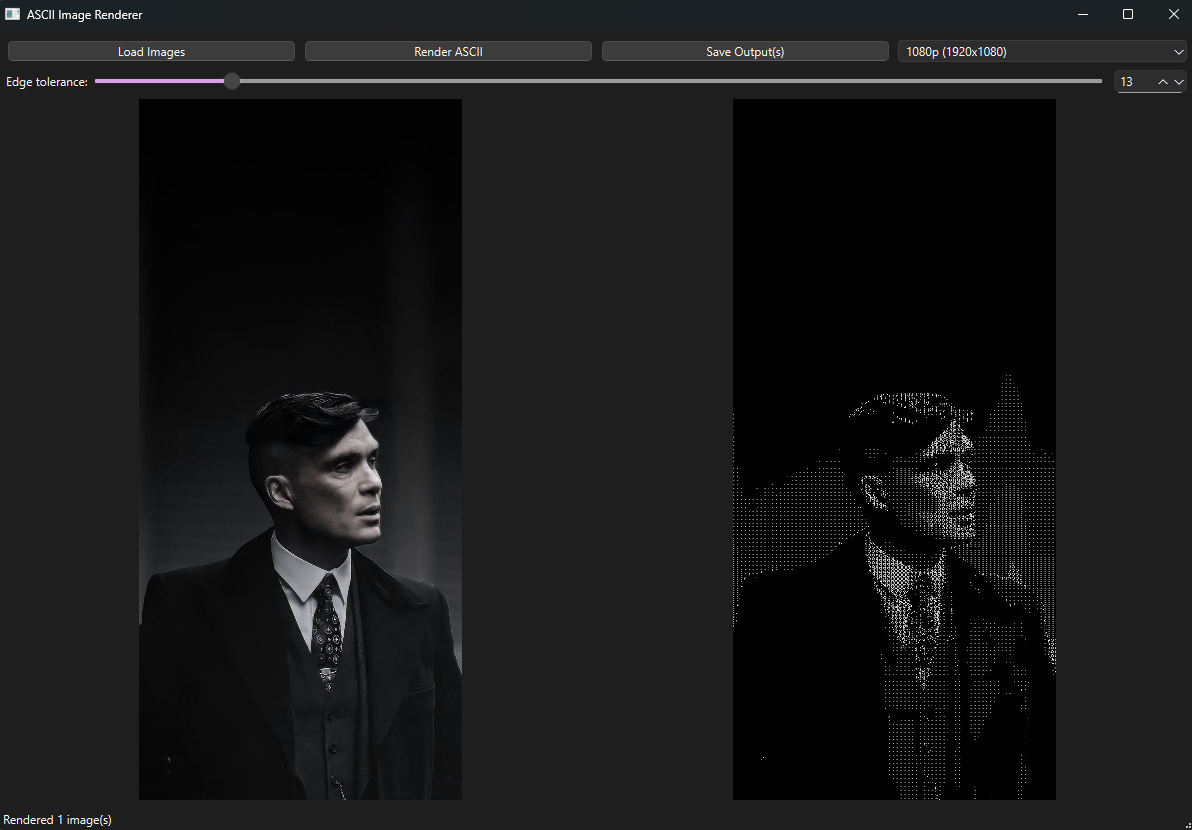
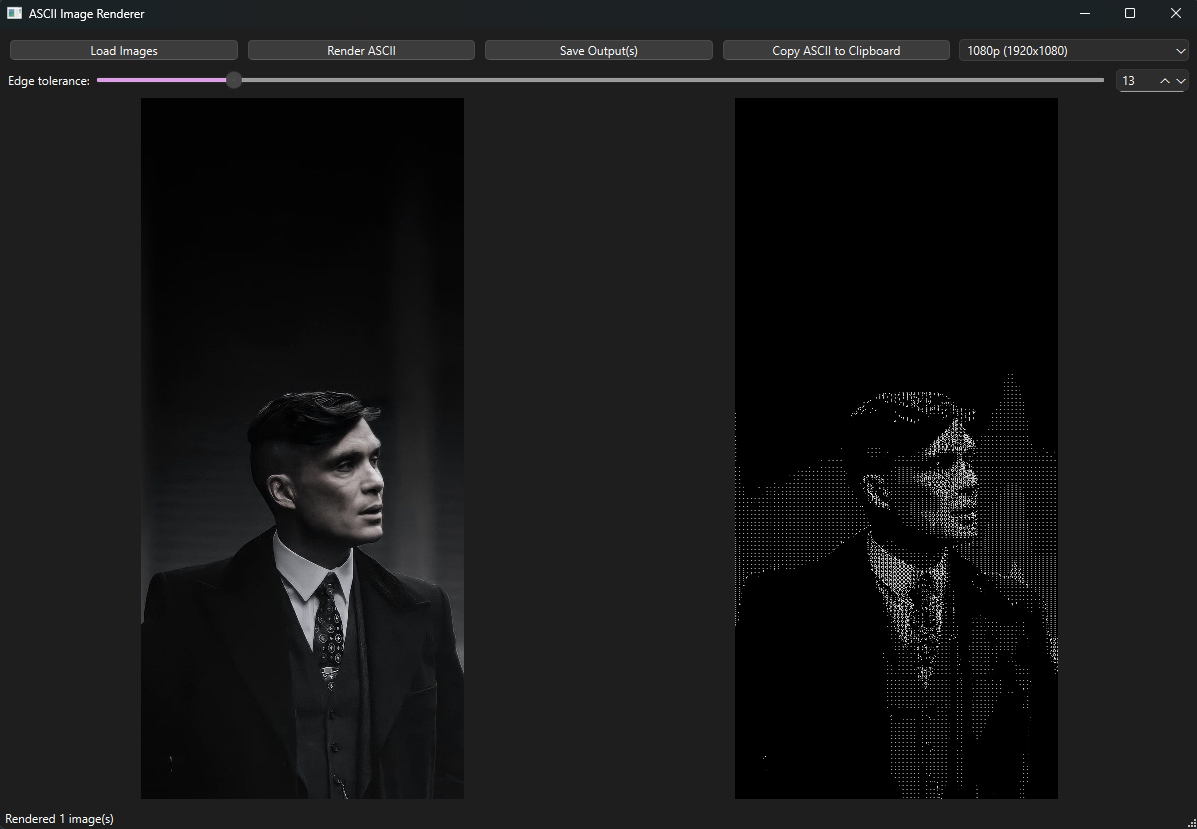
Added to text functionality + readme update

diff --git a/main.py b/main.py
@@ -2,13 +2,8 @@ import os
 import argparse
 from src.Renderer import Renderer
 
-def process_images(input_path, output_path, upscale_width, upscale_height, edge_tolerance):
-    """
-    Process a single image or all images in a folder.
-    """
-    # If input is a folder, process all image files inside
+def process_images(input_path, output_path, upscale_width, upscale_height, edge_tolerance, print_text):
     if os.path.isdir(input_path):
-        os.makedirs(output_path, exist_ok=True)
         files = os.listdir(input_path)
         for filename in files:
             if not filename.lower().endswith(('.png', '.jpg', '.jpeg', '.bmp', '.tiff')):
@@ -17,17 +12,22 @@ def process_images(input_path, output_path, upscale_width, upscale_height, edge_
             img = Renderer.get_image_from_file(full_input, upscale_height, upscale_width)
             if img is None:
                 continue
-            render = Renderer.render_as_ascii(img, edge_tolerance=edge_tolerance)
-            output_file = os.path.join(output_path, filename)
-            Renderer.save_render(render, output_file)
-    elif os.path.isfile(input_path):
-        # Single image
-        os.makedirs(os.path.dirname(output_path), exist_ok=True)
-        img = Renderer.get_image_from_file(input_path, upscale_height, upscale_width)
-        render = Renderer.render_as_ascii(img, edge_tolerance=edge_tolerance)
-        Renderer.save_render(render, output_path)
+
+            if print_text:
+                Renderer.print_ascii(img, edge_tolerance)
+            else:
+                render = Renderer.render_as_ascii(img, edge_tolerance)
+                os.makedirs(output_path, exist_ok=True)
+                output_file = os.path.join(output_path, filename)
+                Renderer.save_render(render, output_file)
     else:
-        print(f"Error: {input_path} is not a valid file or folder.")
+        img = Renderer.get_image_from_file(input_path, upscale_height, upscale_width)
+        if print_text:
+            Renderer.print_ascii(img, edge_tolerance)
+        else:
+            render = Renderer.render_as_ascii(img, edge_tolerance)
+            Renderer.save_render(render, output_path)
+
 
 def parse_args():
     parser = argparse.ArgumentParser(description="ASCII Renderer Command-Line Tool")
@@ -36,6 +36,7 @@ def parse_args():
     parser.add_argument("--upscale_width", type=int, default=1920, help="Width to upscale images to (default: 1920)")
     parser.add_argument("--upscale_height", type=int, default=1080, help="Height to upscale images to (default: 1080)")
     parser.add_argument("--edge_tolerance", type=int, default=13, help="Edge detection sensitivity (default: 13)")
+    parser.add_argument("--text", action="store_true", help="Print ASCII directly to terminal instead of saving image")
     return parser.parse_args()
 
 def main():
@@ -45,7 +46,8 @@ def main():
         output_path=args.output,
         upscale_width=args.upscale_width,
         upscale_height=args.upscale_height,
-        edge_tolerance=args.edge_tolerance
+        edge_tolerance=args.edge_tolerance,
+        print_text=args.text
     )
 
 if __name__ == "__main__":

diff --git a/AsciiApp.py b/AsciiApp.py
@@ -41,6 +41,10 @@ class AsciiApp(QMainWindow):
         self.save_btn.clicked.connect(self.save_renders)
         self.save_btn.setEnabled(False)
 
+        self.copy_btn = QPushButton("Copy ASCII to Clipboard")
+        self.copy_btn.clicked.connect(self.copy_to_clipboard)
+        self.copy_btn.setEnabled(False)
+
         # --- Resolution dropdown ---
         self.resolution_combo = QComboBox()
         self.resolution_combo.addItems([
@@ -88,6 +92,7 @@ class AsciiApp(QMainWindow):
         button_layout.addWidget(self.load_btn)
         button_layout.addWidget(self.render_btn)
         button_layout.addWidget(self.save_btn)
+        button_layout.addWidget(self.copy_btn)
         button_layout.addWidget(self.resolution_combo)
         button_layout.addWidget(self.width_label)
         button_layout.addWidget(self.width_input)
@@ -122,7 +127,6 @@ class AsciiApp(QMainWindow):
 
         is_custom = text == "Custom"
 
-        # Toggle visibility of custom boxes
         self.width_input.setVisible(is_custom)
         self.height_input.setVisible(is_custom)
         self.width_label.setVisible(is_custom)
@@ -132,7 +136,6 @@ class AsciiApp(QMainWindow):
             self.upscale_width, self.upscale_height = options[text]
             self.statusBar().showMessage(f"Resolution set to {text}")
         else:
-            # Restore previously entered custom values
             self.width_input.setText(str(self.custom_w))
             self.height_input.setText(str(self.custom_h))
             self.statusBar().showMessage("Enter custom width and height")
@@ -194,21 +197,29 @@ class AsciiApp(QMainWindow):
 
         if self.renders:
             self._show_cv_image(self.output_label, self.renders[0][1])
+            self.copy_btn.setEnabled(True)
 
         self.statusBar().showMessage(f"Rendered {len(self.renders)} image(s)")
         self.save_btn.setEnabled(True)
+
+    def copy_to_clipboard(self):
+        """Convert the current render to ASCII text and copy to clipboard."""
+        if not self.file_paths:
+            return
+        img = Renderer.get_image_from_file(self.file_paths[0], self.upscale_height, self.upscale_width)
+        Renderer.copy_ascii_to_clipboard(img, edge_tolerance=self.edge_tolerance)
+        self.statusBar().showMessage("ASCII copied to clipboard!")
 
     def save_renders(self):
         """Save all rendered ASCII images to a user-chosen folder."""
         if not hasattr(self, "renders") or not self.renders:
             return
 
-        # Open folder selection dialog
         folder = QFileDialog.getExistingDirectory(
             self, "Select folder to save ASCII renders"
         )
         if not folder:
-            return  # user cancelled
+            return
 
         for path, render in self.renders:
             base_name = os.path.basename(path)

diff --git a/src/Renderer.py b/src/Renderer.py
@@ -1,5 +1,6 @@
 import numpy as np
 import cv2
+import pyperclip
 
 CHARS = np.array(list(" .:coPO?@■"))   # ascii characters in order of luminance (darkest to brightest)
 CHAR_PIXEL_SIZE = 8                     # ascii characters are 8x8 pixels
@@ -75,11 +76,57 @@ class Renderer:
     @staticmethod
     def save_render(render: cv2.typing.MatLike, output_path: str="output.png"):
         '''
-        Saves ascii render to given path
+        Saves ascii render as image to given path
         - if not path given, will be saved to current directory as output.png
         '''
         cv2.imwrite(output_path, render)
         print(f"saved to {output_path}")
+        
+    @staticmethod
+    def render_ascii_to_text(image: np.ndarray, edge_tolerance: int=13) -> str:
+        '''
+        Converts an image to ASCII text string for terminal or clipboard
+        '''
+        ascii_matrix, edge_mask, angle = image_to_ascii_matrix(image, edge_tolerance)
+        height, width = ascii_matrix.shape
+
+        ascii_lines = []
+        for y in range(0, height, CHAR_PIXEL_SIZE):
+            line = []
+            for x in range(0, width, CHAR_PIXEL_SIZE):
+                char = CHARS[ascii_matrix[y, x]]
+                if edge_mask[y, x] > 0:
+                    ang = (np.degrees(angle[y, x]) + 180) % 180
+                    if 22.5 < ang <= 67.5:
+                        char = '/'
+                    elif 67.5 < ang <= 112.5:
+                        char = '|'
+                    elif 112.5 < ang <= 157.5:
+                        char = '\\'
+                    else:
+                        char = '-'
+                line.append(char)
+            ascii_lines.append(''.join(line))
+        return "\n".join(ascii_lines)
+    
+    @staticmethod
+    def print_ascii(image: np.ndarray, edge_tolerance: int=13):
+        '''
+        Prints ASCII directly to terminal
+        '''
+        ascii_text = Renderer.render_ascii_to_text(image, edge_tolerance)
+        print(ascii_text)
+        return ascii_text
+
+    @staticmethod
+    def copy_ascii_to_clipboard(image: np.ndarray, edge_tolerance: int=13):
+        '''
+        Copies ASCII text version to clipboard (for GUI)
+        '''
+        ascii_text = Renderer.render_ascii_to_text(image, edge_tolerance)
+        pyperclip.copy(ascii_text)
+        print("ASCII art copied to clipboard!")
+        return ascii_text
         
 def image_to_ascii_matrix(image: np.ndarray, edge_tolerance: int) -> np.ndarray:
     '''

diff --git a/README.md b/README.md
@@ -12,6 +12,7 @@ A simple desktop application to convert images into ASCII art using Python. User
 - Adjust upscale resolution: choose from presets or enter custom width/height.
 - Adjust edge detection sensitivity using a slider or numeric input.
 - Save rendered ASCII images to a folder of your choice.
+   - Or print as ASCII text
 
 **NOTE**: GUI saves output with "_ascii" appended to picture name. Use CLI to save with same name
 
@@ -47,14 +48,14 @@ A simple desktop application to convert images into ASCII art using Python. User
 
 4) Run application:
     ```bash
-    python main.py <input_file/input_folder> <output_file/output_folder> [--upscale_width UPSCALE_WIDTH] [--upscale_height UPSCALE_HEIGHT] [--edge_tolerance EDGE_TOLERANCE]
+    python main.py <input_file/input_folder> <output_file/output_folder> [--upscale_width UPSCALE_WIDTH] [--upscale_height UPSCALE_HEIGHT] [--edge_tolerance EDGE_TOLERANCE] [--text]
     ```
     OR 
     ```bash
-    uv run  main.py main.py <input_file/input_folder> <output_file/output_folder> [--upscale_width UPSCALE_WIDTH] [--upscale_height UPSCALE_HEIGHT] [--edge_tolerance EDGE_TOLERANCE]
+    uv run main.py <input_file/input_folder> <output_file/output_folder> [--upscale_width UPSCALE_WIDTH] [--upscale_height UPSCALE_HEIGHT] [--edge_tolerance EDGE_TOLERANCE] [--text]
     ```
 
-    Usage Examples:
+    Usage Examples (use python or uv run):
     - Single image:
       ```bash
       python main.py images/image.png output/image.png --upscale_width 1920 --upscale_height 1080 --edge_tolerance 15
@@ -62,7 +63,19 @@ A simple desktop application to convert images into ASCII art using Python. User
    -  Folder of images:
       ```bash
       python main.py images/ output/ --upscale_width 1280 --upscale_height 720 --edge_tolerance 10
-      ```   
+      ```
+
+   For terminal print (one image):
+      ```bash
+      python main.py images/image.png output/image.png --upscale_width 1920 --upscale_height 1080 --edge_tolerance 15 --text # Can add >> ascii.txt to output ASCII to text file
+      ```
+   Arguments:
+   - `<input_path>` – Path to an image file or folder of images.
+   - `<output_path>` – Output file or folder path.
+   - `--width / --height` – Upscale dimensions (optional).
+   - `--edge` – Edge tolerance for detail sensitivity (optional, default: 13).
+   - `--text` – Prints ASCII art directly to the terminal instead of saving an image.
+      
 
 ## How it Works
 The ASCII Renderer converts images into ASCII art using a combination of image processing and character mapping. Here's a step-by-step breakdown:
